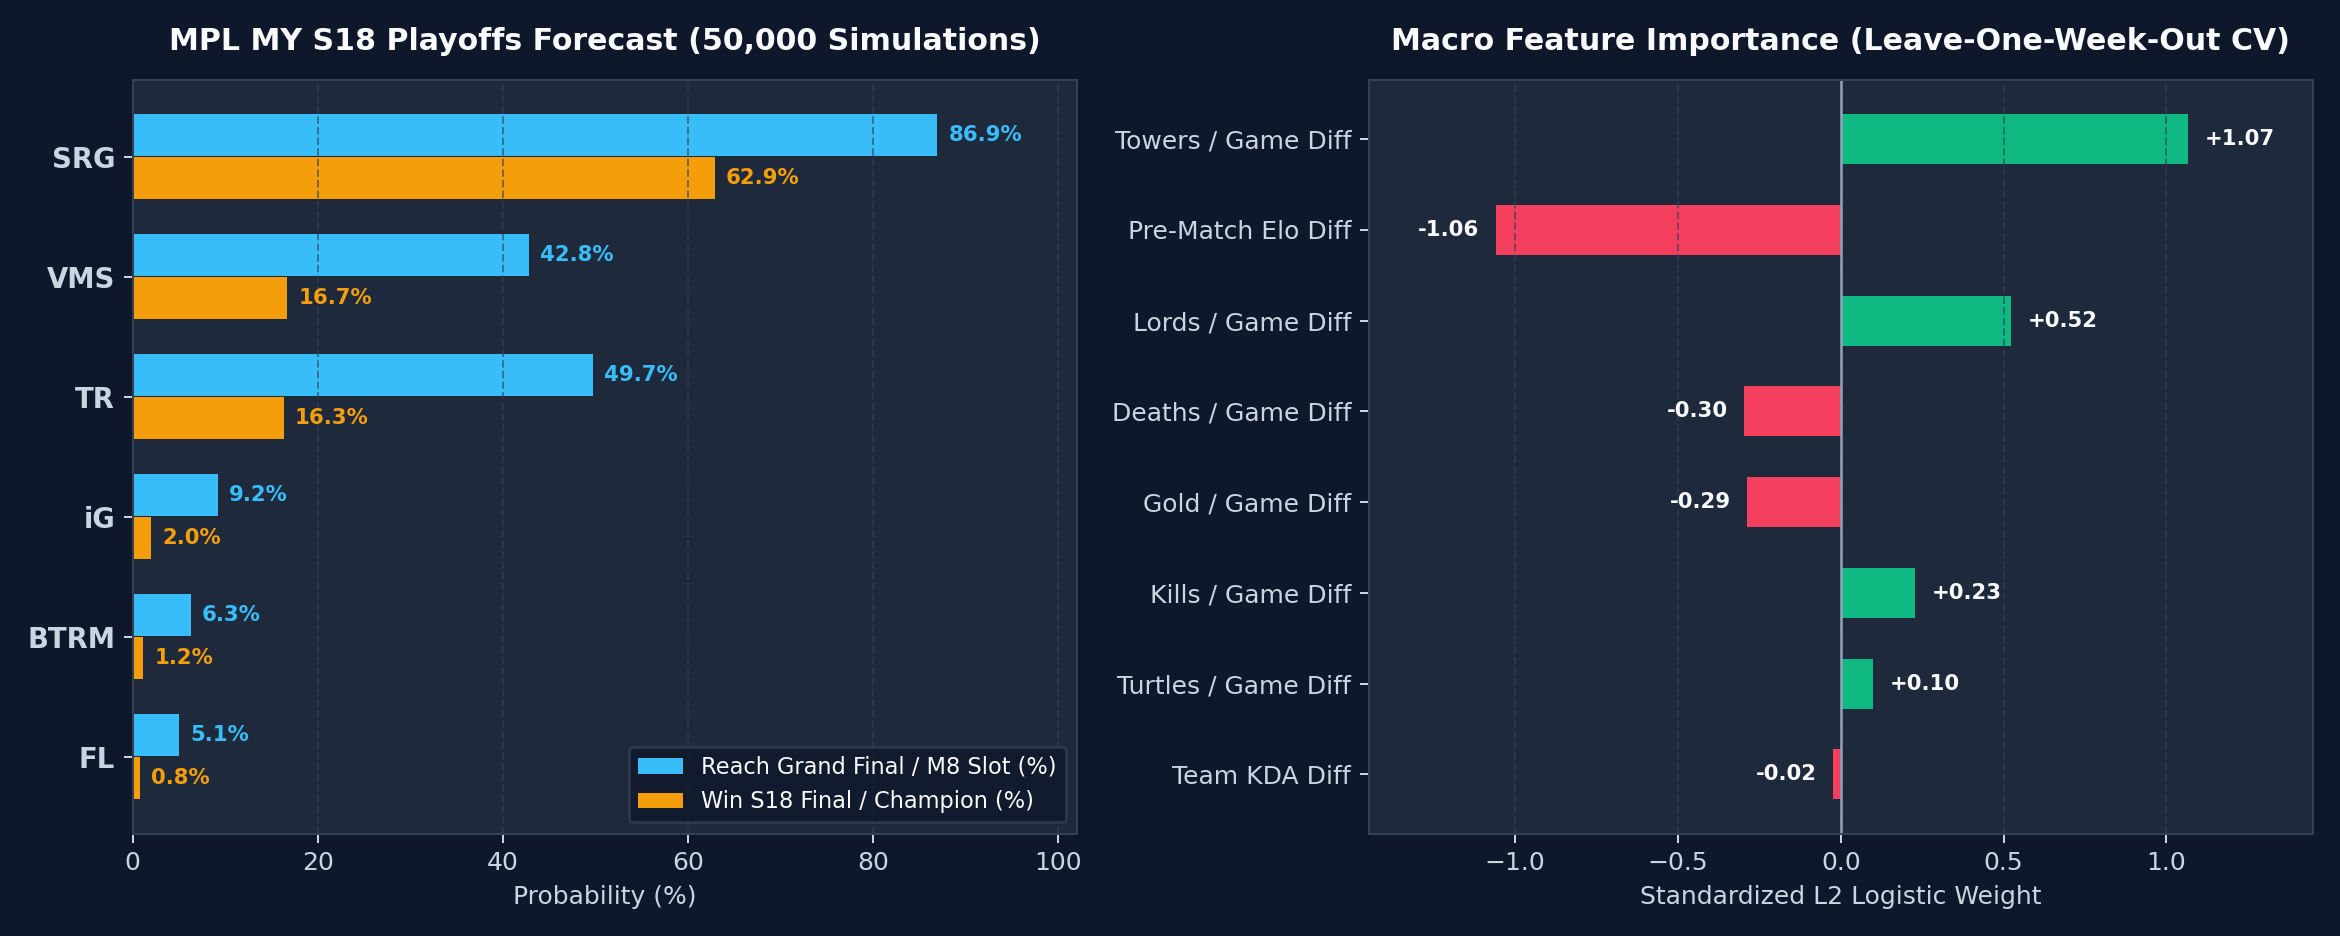
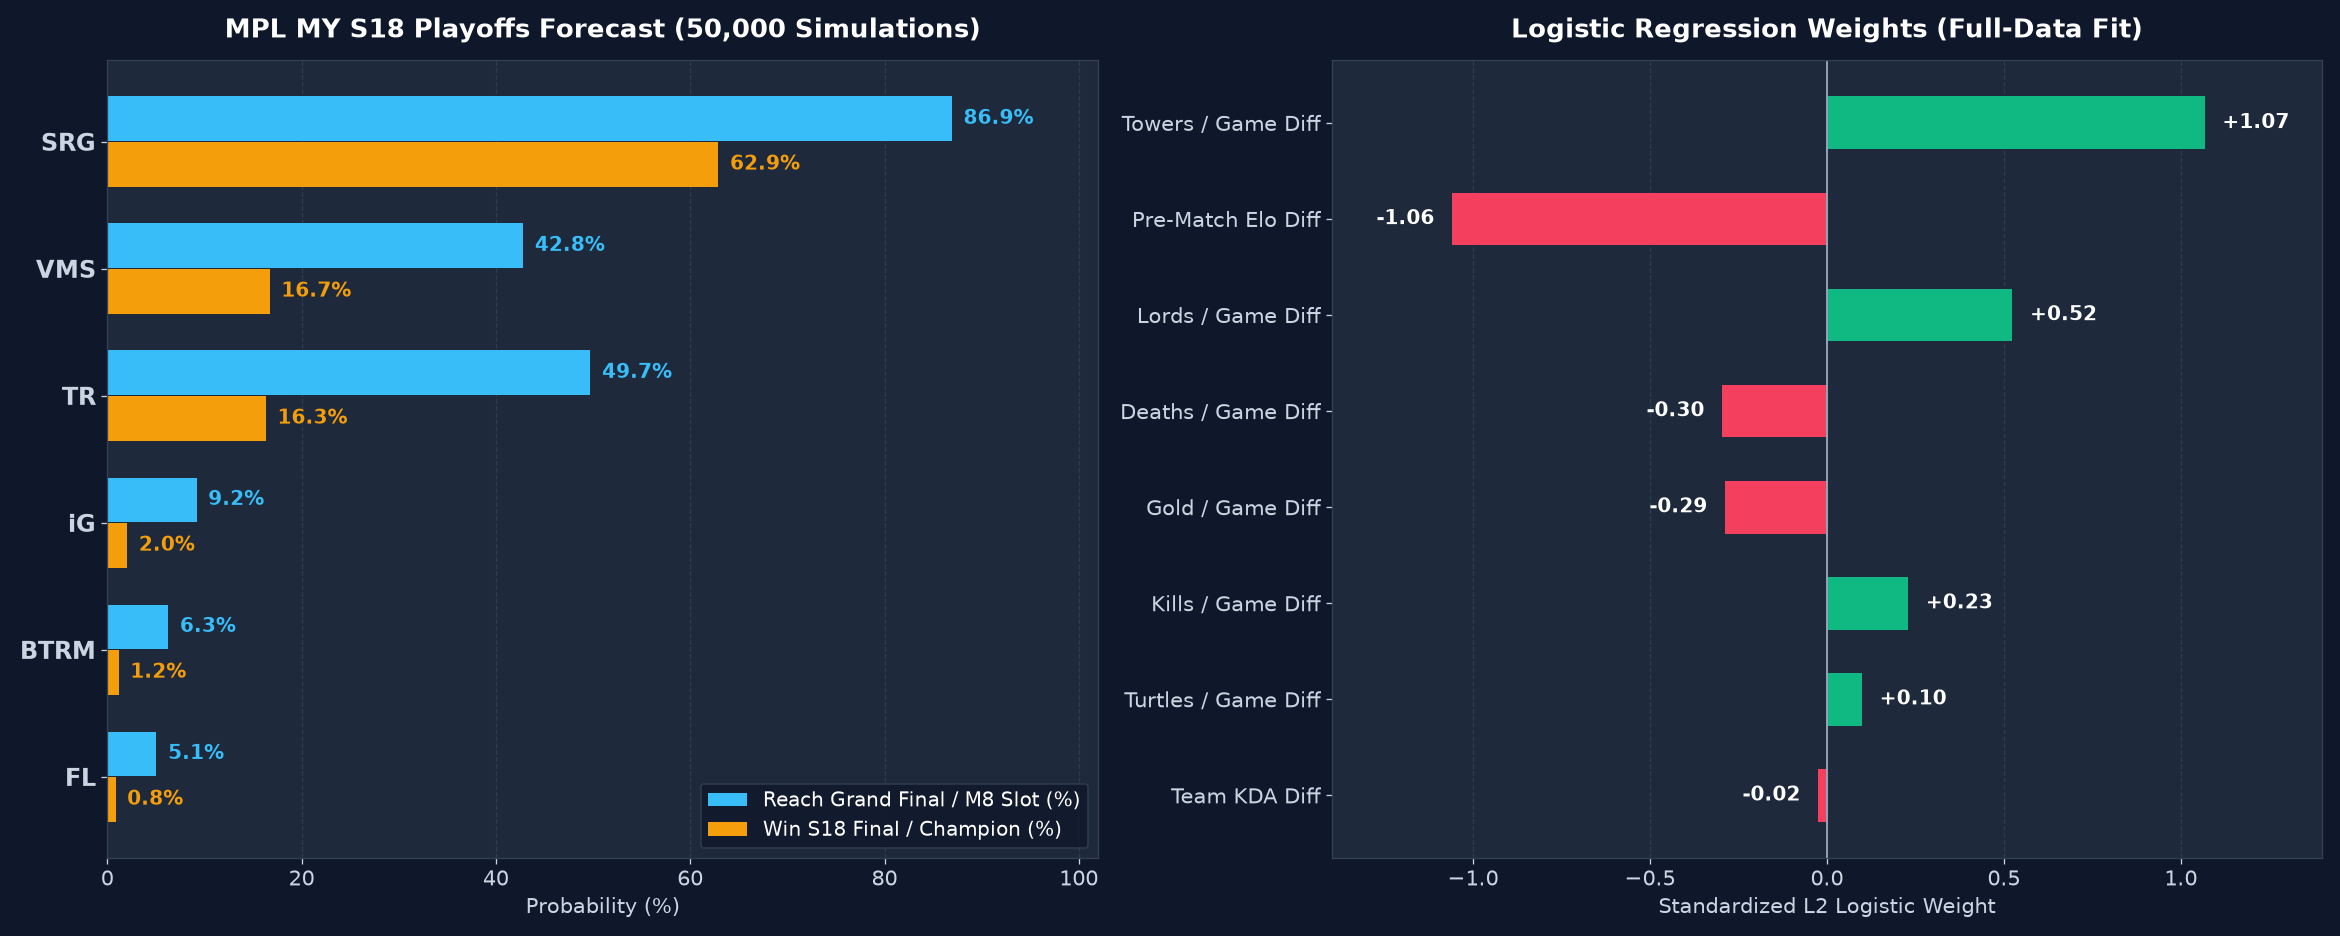
Fix docstrings, write outputs to data/, regenerate chart, add README
- Docstring now matches the code: 8-fold leave-one-week-out CV, gradient-boosted
  stumps (class renamed from BaggedTreeBoostEnsemble), Elo scoring, BT prior
- main() writes CSVs into data/ and also saves the playoffs forecast CSV
- plot_forecast() regenerates the chart; right panel retitled as full-data
  fit weights (it was labelled as cross-validated)
- README with forecast, method, CV scores, Elo baseline and limitations
  (season-aggregate feature leakage, negative Elo weight)
- requirements.txt, .gitignore, MIT LICENSE

Forecast numbers and data CSVs are unchanged.

diff --git a/mpl_my_s18_predictor.py b/mpl_my_s18_predictor.py
@@ -9,12 +9,15 @@ Features Included:
 1. Complete 56-match Double Round-Robin Regular Season dataset (Weeks 1-8).
 2. Official 8-team macro telemetry (Kills, Deaths, Assists, Gold, Damage,
    Lord, Turtle, Tower across all regular season games).
-3. Chronological Elo & Margin-of-Victory rating tracker + Bradley-Terry
-   Maximum Likelihood team skill estimation.
+3. Chronological Elo rating tracker (series score 2-0 / 2-1 / 1-2 / 0-2 mapped
+   to 1.0 / 0.75 / 0.25 / 0.0) + Bradley-Terry Maximum Likelihood team skill
+   estimation on game-level results.
 4. L2-Regularized Logistic Regression Classifier (implemented via exact
-   Newton-Raphson / IRLS in NumPy, with 7-fold Stratified Cross-Validation)
-   plus a non-linear Feature-Weighted Random Forest / Bagged Decision Stump
-   Ensemble predicting single-game win probability p(A beats B).
+   Newton-Raphson / IRLS in NumPy) plus a Gradient-Boosted Decision Stump
+   Ensemble, both trained on Bo3 match outcomes and evaluated with 8-fold
+   Leave-One-Week-Out Cross-Validation. The match-level probability is
+   rescaled to a single-game probability p(A beats B) and blended with
+   Bradley-Terry, Elo and head-to-head estimates.
 5. Exact Negative-Binomial Bo5 / Bo7 series probability conversion and a
    50,000-iteration Monte Carlo simulation of the MPL MY S18 Hybrid
    Elimination Playoffs bracket (Oct 28 – Nov 1, 2026) to predict M8 World
@@ -24,10 +27,15 @@ Features Included:
 from __future__ import annotations
 
 import math
+from pathlib import Path
 from typing import Dict, List, Tuple
 
 import numpy as np
 import pandas as pd
+
+REPO_DIR = Path(__file__).resolve().parent
+DATA_DIR = REPO_DIR / "data"
+ASSETS_DIR = REPO_DIR / "assets"
 
 
 # ---------------------------------------------------------------------------
@@ -303,7 +311,7 @@ class L2LogisticRegression:
         return np.vstack([1.0 - p1, p1]).T
 
 
-class BaggedTreeBoostEnsemble:
+class GradientBoostedStumpEnsemble:
     """
     Non-linear Gradient-Boosted Decision Stump Ensemble in pure NumPy.
     Captures non-linear thresholds in macro differentials (e.g. KDA + Tower diff).
@@ -315,7 +323,7 @@ class BaggedTreeBoostEnsemble:
         self.stumps: List[Tuple[int, float, float, float]] = []
         self.base_log_odds: float = 0.0
 
-    def fit(self, X: np.ndarray, y: np.ndarray) -> "BaggedTreeBoostEnsemble":
+    def fit(self, X: np.ndarray, y: np.ndarray) -> "GradientBoostedStumpEnsemble":
         p_mean = np.clip(np.mean(y), 1e-4, 1.0 - 1e-4)
         self.base_log_odds = float(np.log(p_mean / (1.0 - p_mean)))
         f_pred = np.full(len(y), self.base_log_odds)
@@ -365,7 +373,7 @@ def fit_bradley_terry_game_ratings(teams: List[str]) -> Dict[str, float]:
     """
     idx = {t: i for i, t in enumerate(teams)}
     n = len(teams)
-    # Prior pseudo-counts (0.5 game win + 0.5 game loss against each opponent for stability)
+    # Weak prior for stability: 0.5 pseudo-win per team and 0.15 pseudo-games per pair
     wins = np.zeros(n) + 0.5
     games_matrix = np.zeros((n, n)) + 0.15
     np.fill_diagonal(games_matrix, 0.0)
@@ -525,7 +533,7 @@ def compute_roc_auc(y_true: np.ndarray, y_prob: np.ndarray) -> float:
 
 def train_and_evaluate_models(
     df_train: pd.DataFrame, feature_cols: List[str]
-) -> Tuple[np.ndarray, np.ndarray, L2LogisticRegression, BaggedTreeBoostEnsemble]:
+) -> Tuple[np.ndarray, np.ndarray, L2LogisticRegression, GradientBoostedStumpEnsemble]:
     """Evaluate via 8-Fold Leave-One-Week-Out Cross-Validation and fit final models."""
     X = df_train[feature_cols].values
     y = df_train["target_win"].values
@@ -543,7 +551,7 @@ def train_and_evaluate_models(
         X_va = (X[val_mask] - mu) / sd
 
         lr_fold = L2LogisticRegression(l2_penalty=2.0).fit(X_tr, y[tr_mask])
-        gb_fold = BaggedTreeBoostEnsemble(n_estimators=80, learning_rate=0.06).fit(X_tr, y[tr_mask])
+        gb_fold = GradientBoostedStumpEnsemble(n_estimators=80, learning_rate=0.06).fit(X_tr, y[tr_mask])
         p_lr_oof[val_mask] = lr_fold.predict_proba(X_va)[:, 1]
         p_gb_oof[val_mask] = gb_fold.predict_proba(X_va)[:, 1]
 
@@ -567,7 +575,7 @@ def train_and_evaluate_models(
     X_scaled = (X - mu_full) / sd_full
 
     lr_full = L2LogisticRegression(l2_penalty=2.0).fit(X_scaled, y)
-    gb_full = BaggedTreeBoostEnsemble(n_estimators=80, learning_rate=0.06).fit(X_scaled, y)
+    gb_full = GradientBoostedStumpEnsemble(n_estimators=80, learning_rate=0.06).fit(X_scaled, y)
 
     print("\n=== Standardized Feature Weights (L2 Logistic Regression) ===")
     for fname, weight in sorted(zip(feature_cols, lr_full.coef_), key=lambda x: abs(x[1]), reverse=True):
@@ -581,7 +589,7 @@ def build_pairwise_game_prob_matrix(
     mu: np.ndarray,
     sd: np.ndarray,
     lr: L2LogisticRegression,
-    gb: BaggedTreeBoostEnsemble,
+    gb: GradientBoostedStumpEnsemble,
 ) -> Dict[Tuple[str, str], float]:
     """
     Build calibrated single-game win probability p_game(A beats B) for all Playoff pairs,
@@ -758,13 +766,85 @@ def simulate_playoffs_monte_carlo(
     return df_sim
 
 
+FEATURE_LABELS = {
+    "pre_elo_diff": "Pre-Match Elo Diff",
+    "kda_diff": "Team KDA Diff",
+    "kills_pg_diff": "Kills / Game Diff",
+    "deaths_pg_diff": "Deaths / Game Diff",
+    "lord_pg_diff": "Lords / Game Diff",
+    "turtle_pg_diff": "Turtles / Game Diff",
+    "tower_pg_diff": "Towers / Game Diff",
+    "gold_pg_diff": "Gold / Game Diff",
+}
+
+
+def plot_forecast(
+    df_sim: pd.DataFrame, feature_cols: List[str], lr: L2LogisticRegression, out_path: Path
+) -> None:
+    """Two-panel chart: playoff forecast (left) and full-fit logistic weights (right)."""
+    import matplotlib
+
+    matplotlib.use("Agg")
+    import matplotlib.pyplot as plt
+
+    bg, panel, grid, text = "#0f172a", "#1e293b", "#334155", "#cbd5e1"
+    fig, (ax1, ax2) = plt.subplots(1, 2, figsize=(20, 8), facecolor=bg)
+    for ax in (ax1, ax2):
+        ax.set_facecolor(panel)
+        ax.tick_params(colors=text, labelsize=13)
+        for spine in ax.spines.values():
+            spine.set_color(grid)
+        ax.grid(axis="x", color=grid, linestyle="--", alpha=0.8)
+        ax.set_axisbelow(True)
+
+    teams = df_sim["Team"].tolist()
+    y = np.arange(len(teams))
+    gf = df_sim["M8_Qual_GrandFinal_%"].to_numpy()
+    champ = df_sim["Champion_%"].to_numpy()
+    ax1.barh(y - 0.18, gf, height=0.35, color="#38bdf8", label="Reach Grand Final / M8 Slot (%)")
+    ax1.barh(y + 0.18, champ, height=0.35, color="#f59e0b", label="Win S18 Final / Champion (%)")
+    for yi, (g, c) in enumerate(zip(gf, champ)):
+        ax1.text(g + 1.2, yi - 0.18, f"{g:.1f}%", va="center", color="#38bdf8", fontsize=12, fontweight="bold")
+        ax1.text(c + 1.2, yi + 0.18, f"{c:.1f}%", va="center", color="#f59e0b", fontsize=12, fontweight="bold")
+    ax1.set_yticks(y, teams, fontsize=15, fontweight="bold")
+    ax1.invert_yaxis()
+    ax1.set_xlim(0, 102)
+    ax1.set_xlabel("Probability (%)", color=text, fontsize=13)
+    ax1.set_title("MPL MY S18 Playoffs Forecast (50,000 Simulations)", color="white", fontsize=16, fontweight="bold", pad=14)
+    ax1.legend(loc="lower right", facecolor=bg, edgecolor=grid, labelcolor="white", fontsize=12)
+
+    weights = sorted(zip(feature_cols, lr.coef_), key=lambda x: abs(x[1]), reverse=True)
+    labels = [FEATURE_LABELS.get(f, f) for f, _ in weights]
+    vals = np.array([w for _, w in weights])
+    yw = np.arange(len(vals))
+    ax2.barh(yw, vals, height=0.55, color=np.where(vals >= 0, "#10b981", "#f43f5e"))
+    lim = max(1.4, float(np.abs(vals).max()) * 1.3)
+    for yi, v in enumerate(vals):
+        ax2.text(v + (0.05 if v >= 0 else -0.05) * lim / 1.4, yi, f"{v:+.2f}", va="center",
+                 ha="left" if v >= 0 else "right", color="white", fontsize=12, fontweight="bold")
+    ax2.axvline(0, color="#94a3b8", linewidth=1.2)
+    ax2.set_yticks(yw, labels)
+    ax2.invert_yaxis()
+    ax2.set_xlim(-lim, lim)
+    ax2.set_xlabel("Standardized L2 Logistic Weight", color=text, fontsize=13)
+    ax2.set_title("Logistic Regression Weights (Full-Data Fit)", color="white", fontsize=16, fontweight="bold", pad=14)
+
+    fig.tight_layout()
+    out_path.parent.mkdir(parents=True, exist_ok=True)
+    fig.savefig(out_path, dpi=117, facecolor=bg)
+    plt.close(fig)
+
+
 def main() -> None:
     df_stats = build_feature_table()
     df_train, feature_cols = build_training_dataset(df_stats)
 
     # Export clean CSV datasets for GitHub portfolio use
-    df_stats.to_csv("mpl_my_s18_team_stats.csv")
-    df_train[df_train["team_a"] < df_train["team_b"]].to_csv("mpl_my_s18_regular_season_matches.csv", index=False)
+    DATA_DIR.mkdir(exist_ok=True)
+    df_stats.to_csv(DATA_DIR / "mpl_my_s18_team_stats.csv")
+    df_train[df_train["team_a"] < df_train["team_b"]].to_csv(
+        DATA_DIR / "mpl_my_s18_regular_season_matches.csv", index=False
+    )
 
     print("=== MPL Malaysia S18 Regular Season Per-Game Macro, Elo & Bradley-Terry Table ===")
     cols_show = [
@@ -813,6 +893,9 @@ def main() -> None:
     df_sim = simulate_playoffs_monte_carlo(p_game_matrix, n_sims=50_000)
     print("\n=== 50,000-Run Monte Carlo Playoffs Placement & Championship Forecast ===")
     print(df_sim.round(2).to_string(index=False))
+
+    df_sim.round(2).to_csv(DATA_DIR / "mpl_my_s18_playoffs_forecast.csv", index=False)
+    plot_forecast(df_sim, feature_cols, lr, ASSETS_DIR / "mpl_my_s18_championship_forecast.png")
 
 
 if __name__ == "__main__":

diff --git a/README.md b/README.md
@@ -1,0 +1,71 @@
+# MPL MY S18 Playoffs Predictor
+
+Who wins MPL Malaysia Season 18 (Mobile Legends: Bang Bang), and who takes the two M8 World Championship slots?
+
+This project turns the 56-match regular season (Aug 14 – Oct 18, 2026) into single-game win probabilities, converts them to Bo5/Bo7 series odds, and runs 50,000 Monte Carlo simulations of the playoff bracket (Oct 28 – Nov 1, 2026). Everything is written from scratch in NumPy/pandas: logistic regression via Newton-Raphson, gradient-boosted stumps, Elo and Bradley-Terry ratings.
+
+![Playoffs forecast and model weights](assets/mpl_my_s18_championship_forecast.png)
+
+## Forecast
+
+| Team | Reach Grand Final (M8 slot) | Champion |
+| :--- | ---: | ---: |
+| Selangor Red Giants (SRG) | 86.9% | 62.9% |
+| Team Rey (TR) | 49.7% | 16.3% |
+| Team Vamos (VMS) | 42.8% | 16.7% |
+| Invictus Gaming (iG) | 9.2% | 2.0% |
+| Bigetron MY by VIT (BTRM) | 6.3% | 1.2% |
+| Team Flash (FL) | 5.1% | 0.8% |
+
+Full placement probabilities are in [`data/mpl_my_s18_playoffs_forecast.csv`](data/mpl_my_s18_playoffs_forecast.csv).
+
+## How it works
+
+1. **Data.** 56 regular-season Bo3 results (double round-robin, 8 teams, 136 games) and season totals per team (kills, deaths, assists, gold, damage, lords, turtles, towers). Match results were cross-checked against Liquipedia; all 56 agree, and the standings follow from them.
+2. **Ratings.** A chronological Elo (2-0 / 2-1 / 1-2 / 0-2 scored as 1 / 0.75 / 0.25 / 0) and a game-level Bradley-Terry model fitted by MM iterations.
+3. **Classifier.** L2 logistic regression and a gradient-boosted stump ensemble predict the Bo3 match winner from Elo and per-game macro differences. Validation is 8-fold leave-one-week-out.
+4. **Game probability.** The ML match probability is shrunk to a game probability, then blended: 45% ML, 30% Bradley-Terry, 15% Elo, 10% head-to-head (shrunk toward 50%).
+5. **Bracket.** Exact Bo5/Bo7 series probabilities feed a 50,000-run simulation of the hybrid bracket: UB quarterfinals (VMS–FL, iG–BTRM, single elimination), SRG and TR enter at the UB semifinals, Bo7 lower-bracket final and grand final.
+
+## Run it
+
+```bash
+pip install -r requirements.txt
+python mpl_my_s18_predictor.py
+```
+
+Takes a few seconds. It prints the tables and rewrites `data/mpl_my_s18_team_stats.csv`, `data/mpl_my_s18_regular_season_matches.csv`, `data/mpl_my_s18_playoffs_forecast.csv` and the chart in `assets/`. The simulation is seeded, so results are reproducible.
+
+## Cross-validation
+
+| Model | Accuracy | ROC-AUC | Brier |
+| :--- | ---: | ---: | ---: |
+| L2 logistic regression | 0.750 | 0.773 | 0.193 |
+| Boosted stumps | 0.696 | 0.678 | 0.213 |
+| Blend (65/35) | 0.777 | 0.776 | 0.194 |
+| Reference: pre-match Elo only | 0.680* | 0.675 | – |
+
+\*Accuracy on matches where the Elo gap is non-zero (week-1 matches start level).
+
+## Limitations (read before trusting the numbers)
+
+- **The macro features leak.** Kills, towers, gold etc. are whole-season averages, so every training row already contains the result it is predicting (and later weeks too). The cross-validation scores above are therefore optimistic; the leak-free pre-match Elo reference is the fairer bar.
+- **Elo gets a negative weight.** Because the season averages already encode team strength, the logistic model gives pre-match Elo a weight of about −1.06. At prediction time a bigger Elo lead slightly *lowers* the ML probability (SRG vs TR: 74.4% with the real Elo gap, 77.2% with it set to zero). The blend's separate Elo and Bradley-Terry terms soften this.
+- **Hand-picked constants.** The match-to-game shrink factor (0.68) and the 45/30/15/10 blend weights are judgement calls, not fitted.
+- **Small sample.** 56 matches, 112 directed rows. Treat the forecast as an informed opinion, not a precise estimate.
+- **Player stats are not used by the model.** [`data/mpl_my_s18_player_stats.csv`](data/mpl_my_s18_player_stats.csv) lists five main players for each playoff team; substitutes are not included, so totals for TR, VMS, iG and BTRM are below the team totals.
+
+## Ideas for a v2
+
+- Build rolling, pre-match macro features from per-game box scores so nothing from the future enters training.
+- Train on game outcomes (136 games) instead of match outcomes, which removes the 0.68 shrink factor.
+- Fit the blend weights on out-of-fold predictions and report every model against the Elo baseline.
+
+## Data sources
+
+- Official MPL Malaysia site: <https://my.mpl.mobilelegends.com>
+- Liquipedia, MPL Malaysia Season 18: <https://liquipedia.net/mobilelegends/MPL/Malaysia/Season_18>
+
+## License
+
+MIT, see [LICENSE](LICENSE).
